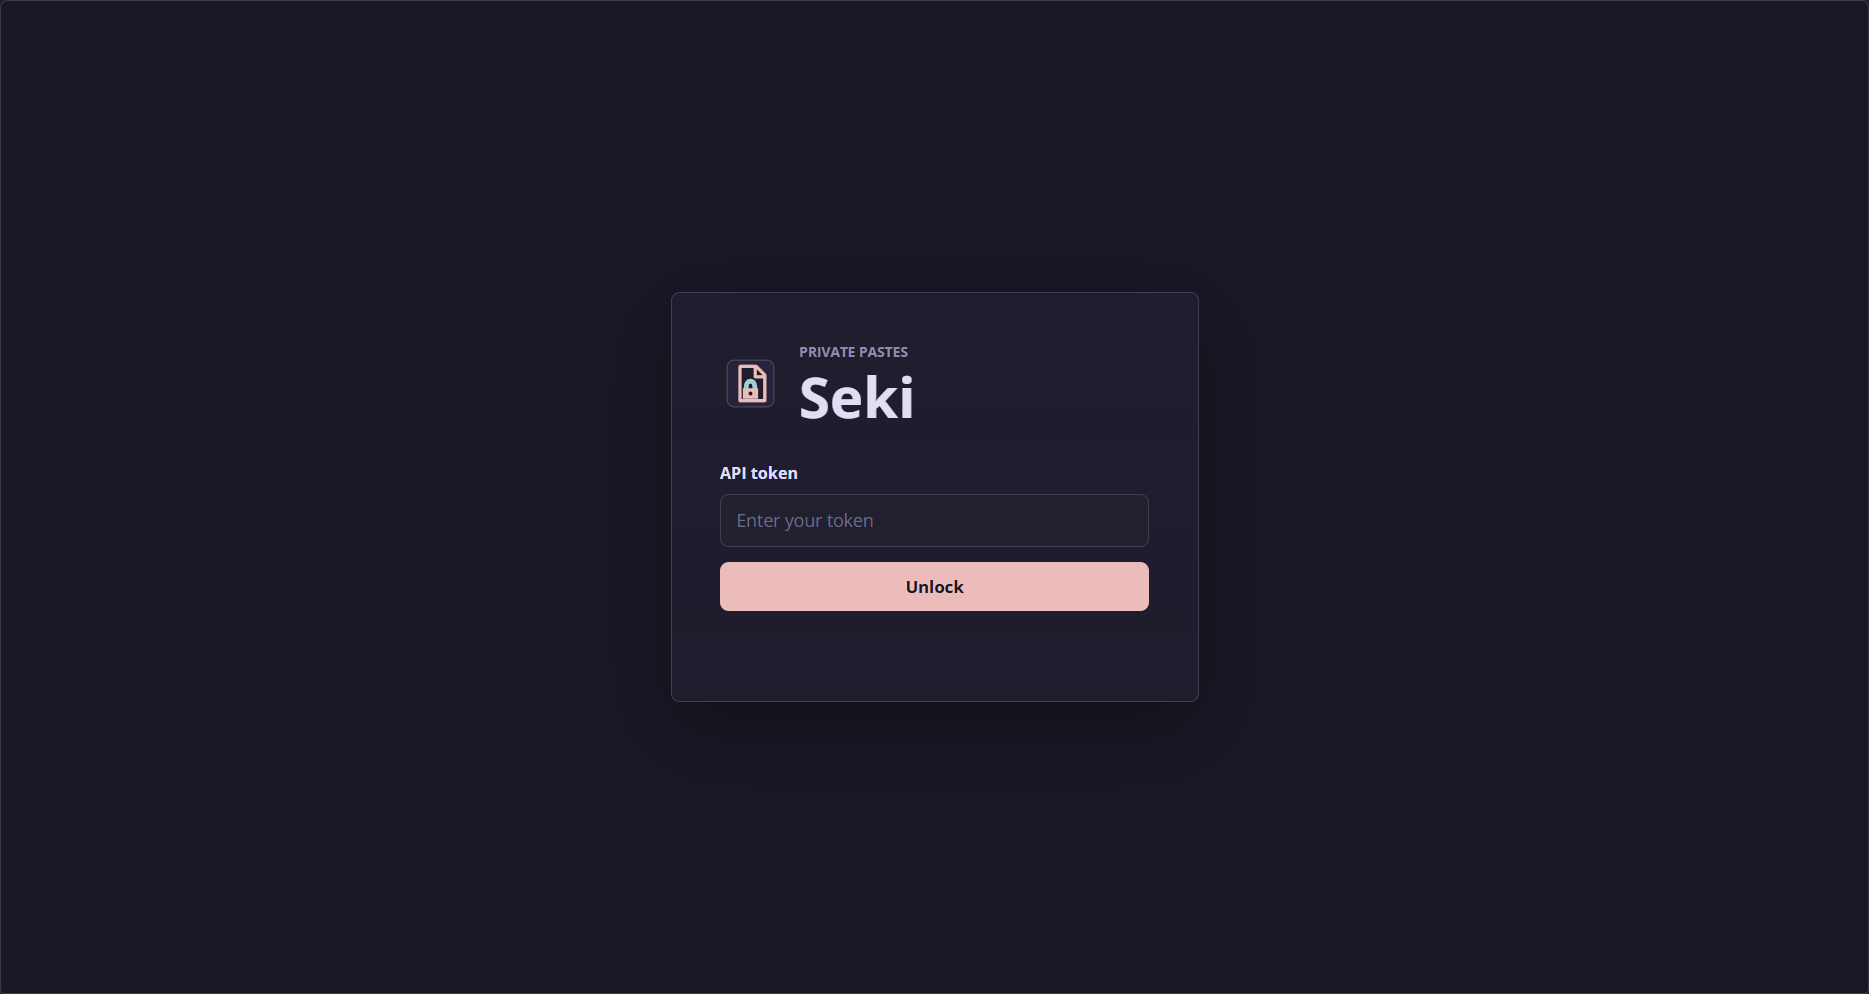
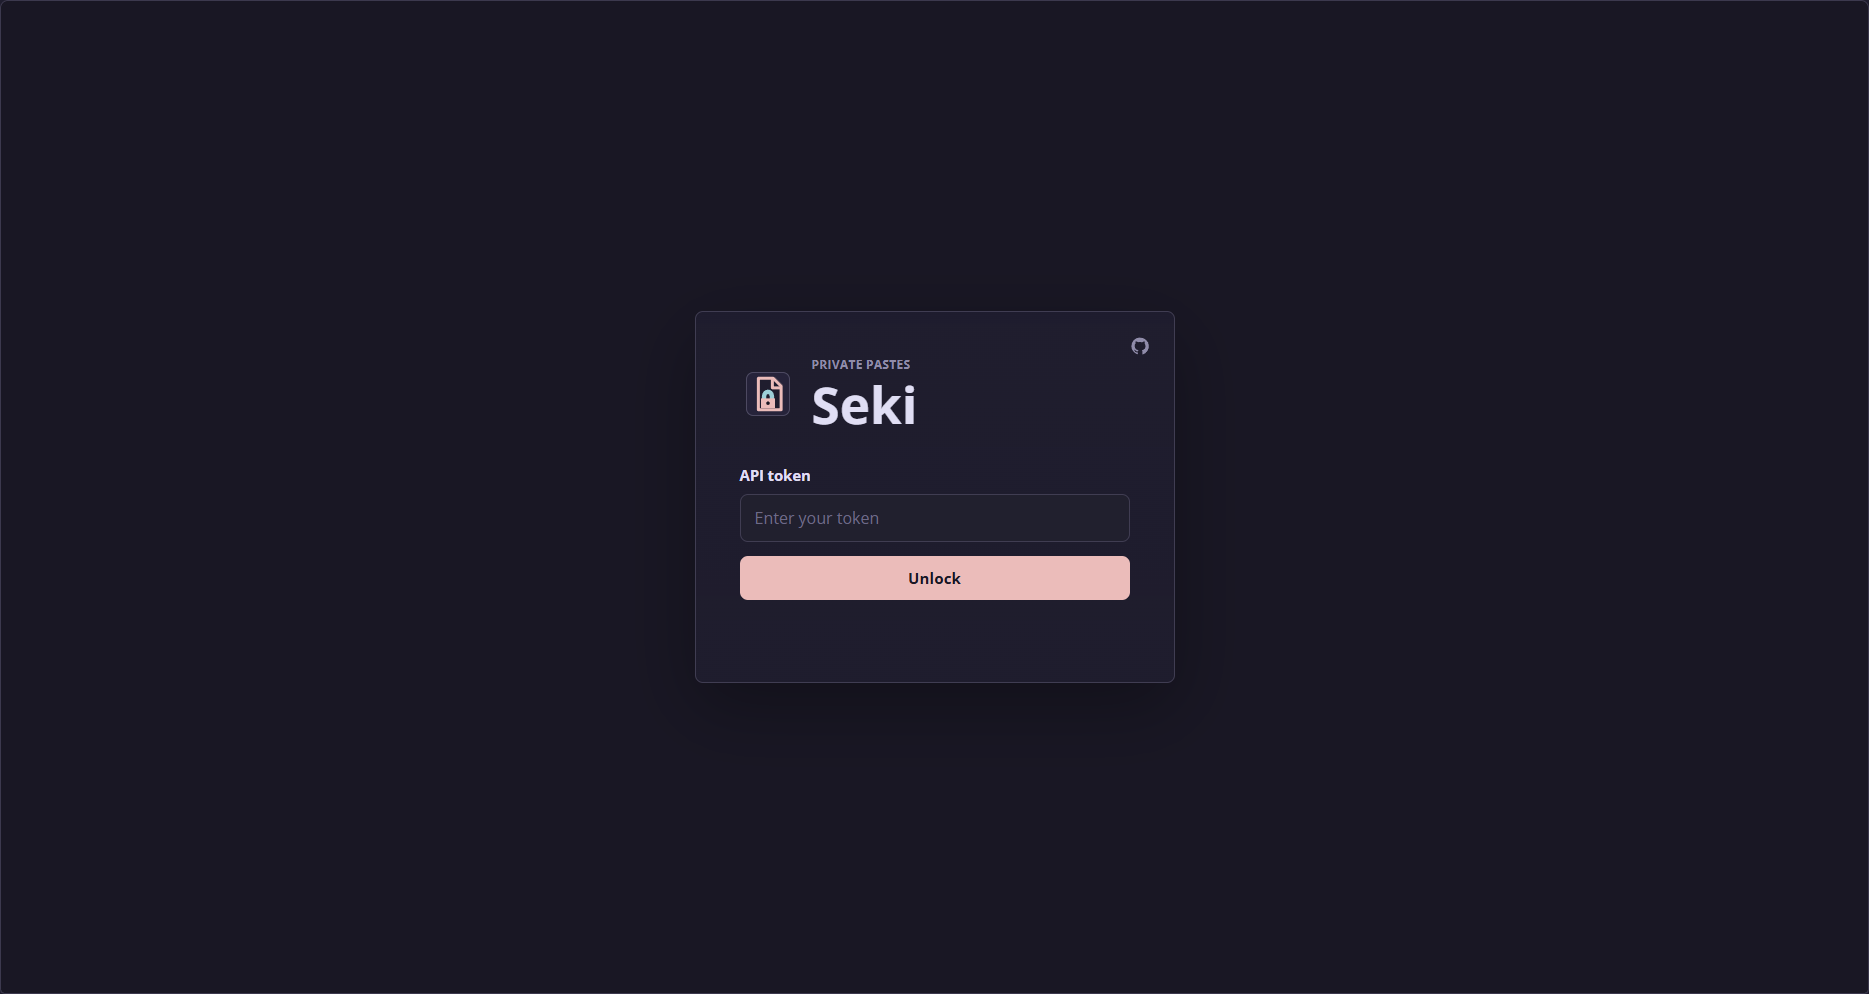
docs(readme): refresh documentation

Changed region(s): [[0.3724, 0.4678, 0.6207, 0.6237], [0.3724, 0.3431, 0.4965, 0.4366]]

diff --git a/README.md b/README.md
@@ -1,9 +1,10 @@
-# Seki
+# <p style="text-align: center;">Seki</p>
 
 Private paste service on Node.js and Express
 
 ![Auth](./docs/screenshots/auth.png)
-![App](./docs/screenshots/app.png)
+![Code](./docs/screenshots/code.png)
+![Markdown](./docs/screenshots/markdown.png)
 
 ## Purpose
 
@@ -12,15 +13,14 @@ Seki stores text pastes as plain text files and serves them through short links.
 ## Features
 
 - Private writes and public reads: creating, deleting, and renaming require a token, viewing works by link
-- Short paste links with configurable id length
 - No database: metadata is stored in `data/index.json`, paste content in `data/pastes/`
 - Raw text view at `/:id/raw`
 - Automatic language detection and syntax highlighting with `highlight.js`
 - Markdown pastes render as HTML in the viewer and stay plain text in raw mode
 - Large pastes skip expensive highlighting and stay readable as plain text
-- Link renaming through API/UI: `/:id` can become a custom slug
+- Open Graph/Twitter metadata
+- Link renaming through API/UI
 - View counter
-- Paste deletion through `DELETE`
 - Configurable paste size limit
 - Atomic index writes through temp file + rename
 
@@ -29,7 +29,9 @@ Seki stores text pastes as plain text files and serves them through short links.
 Requires Node.js 18+
 
 ```bash
-npm install
+git clone https://github.com/FrostyDeFreeze/seki
+cd seki
+npm i
 cp .env.example .env
 npm start
 ```
@@ -42,8 +44,8 @@ BASE_URL=http://localhost:7250
 API_TOKEN=super-secret-token
 
 PASTE_CODE_LENGTH=3
-PASTE_MAX_SIZE=1048576
-HIGHLIGHT_MAX_SIZE=262144
+PASTE_MAX_SIZE=1048576 # in bytes
+HIGHLIGHT_MAX_SIZE=262144 # in bytes
 
 DATA_DIR=./data
 ```
@@ -74,87 +76,14 @@ API errors use this format:
 }
 ```
 
-### `POST /auth/verify`
+| Method   | Endpoint          | Access  | Description                                                              | Body                                    | Response                                                                    |
+| -------- | ----------------- | ------- | ------------------------------------------------------------------------ | --------------------------------------- | --------------------------------------------------------------------------- |
+| `POST`   | `/auth/verify`    | Private | Checks that the token is valid                                           | -                                       | `{ "ok": true }`                                                            |
+| `POST`   | `/api/pastes`     | Private | Creates a paste                                                          | `{ "content": "console.log('hello')" }` | `201` with `{ "success": true, "data": Paste }`                             |
+| `GET`    | `/api/pastes/:id` | Public  | Returns a paste and increments its view counter                          | -                                       | `{ "success": true, "data": Paste }`                                        |
+| `PATCH`  | `/api/pastes/:id` | Private | Renames a paste id and changes its short link                            | `{ "id": "release-notes" }`             | `{ "success": true, "data": Paste }` with updated `id`, `url`, and `rawUrl` |
+| `DELETE` | `/api/pastes/:id` | Private | Deletes a paste from the index and removes its file from disk            | -                                       | `{ "success": true, "data": ... }` with the deleted paste metadata          |
+| `GET`    | `/:id`            | Public  | Opens the HTML paste viewer                                              | -                                       | HTML                                                                        |
+| `GET`    | `/:id/raw`        | Public  | Returns the original paste as plain text and increments its view counter | -                                       | `text/plain; charset=utf-8`                                                 |
 
-Verifies the API token
-
-Requires authorization
-
-Response:
-
-```json
-{ "ok": true }
-```
-
-### `POST /api/pastes`
-
-Creates a paste
-
-Requires authorization
-
-Request body:
-
-```json
-{
-	"content": "console.log('hello')"
-}
-```
-
-Response:
-
-```json
-{
-	"id": "gzC",
-	"file": "gzC.txt",
-	"url": "https://p.example.com/gzC",
-	"rawUrl": "https://p.example.com/gzC/raw",
-	"language": "Plain text",
-	"languageKey": "plaintext",
-	"relevance": 1,
-	"size": 28,
-	"createdAt": "2026-05-27T18:58:42.559Z",
-	"views": 0
-}
-```
-
-### `GET /api/pastes/:id`
-
-Returns a paste and increments its view counter
-
-Public endpoint
-
-Markdown pastes return `renderMode: "markdown"` and `renderedHtml`. Code pastes return `renderMode: "code"` and `highlightedHtml` when the paste size does not exceed `HIGHLIGHT_MAX_SIZE`
-
-### `PATCH /api/pastes/:id`
-
-Renames a paste id, changing its short link
-
-Requires authorization
-
-Request body:
-
-```json
-{
-	"id": "release-notes"
-}
-```
-
-The response contains the updated `id`, `url`, and `rawUrl`
-
-### `DELETE /api/pastes/:id`
-
-Deletes a paste from the index and removes its file from disk
-
-Requires authorization
-
-### `GET /:id`
-
-Opens the HTML paste viewer
-
-Public route
-
-### `GET /:id/raw`
-
-Returns the original paste content as `text/plain; charset=utf-8` and increments the view counter
-
-Public route
+`Paste` includes the paste metadata, `content`, `renderMode`, and rendered fields when they are available. Markdown pastes return `renderMode: "markdown"` with `renderedHtml`. Code pastes return `renderMode: "code"` with `highlightedHtml` when the paste size does not exceed `HIGHLIGHT_MAX_SIZE`.
